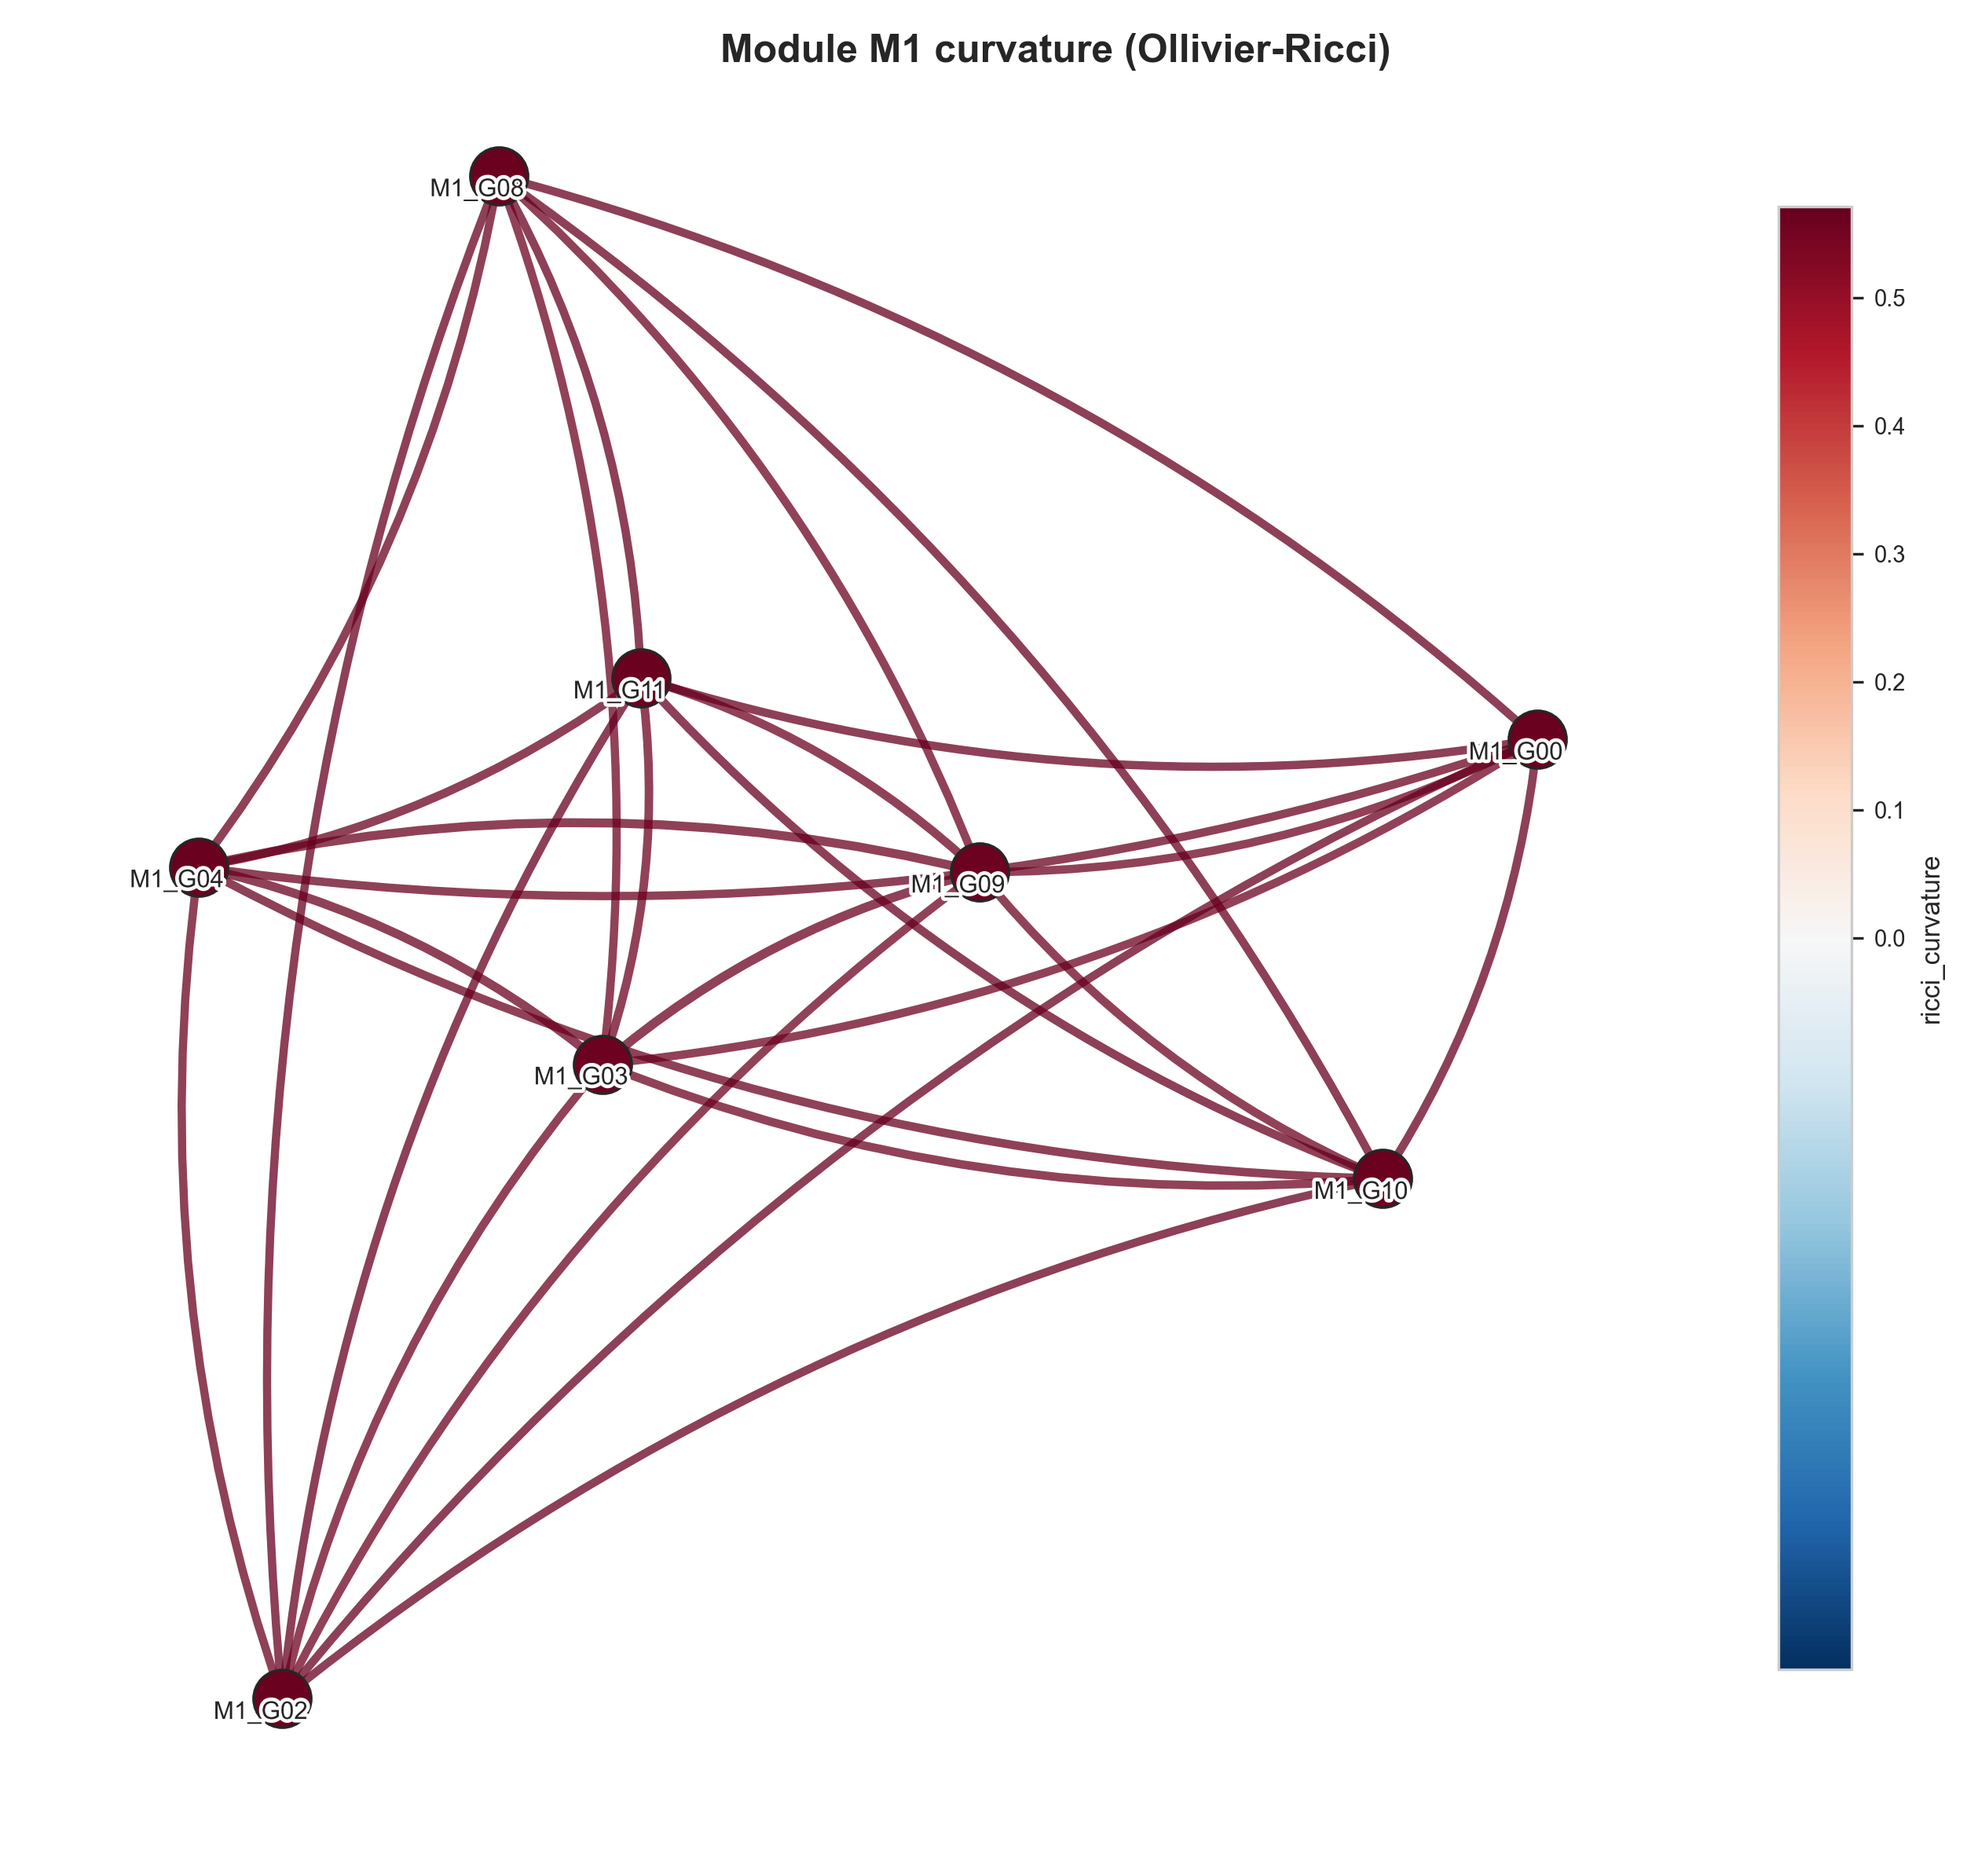
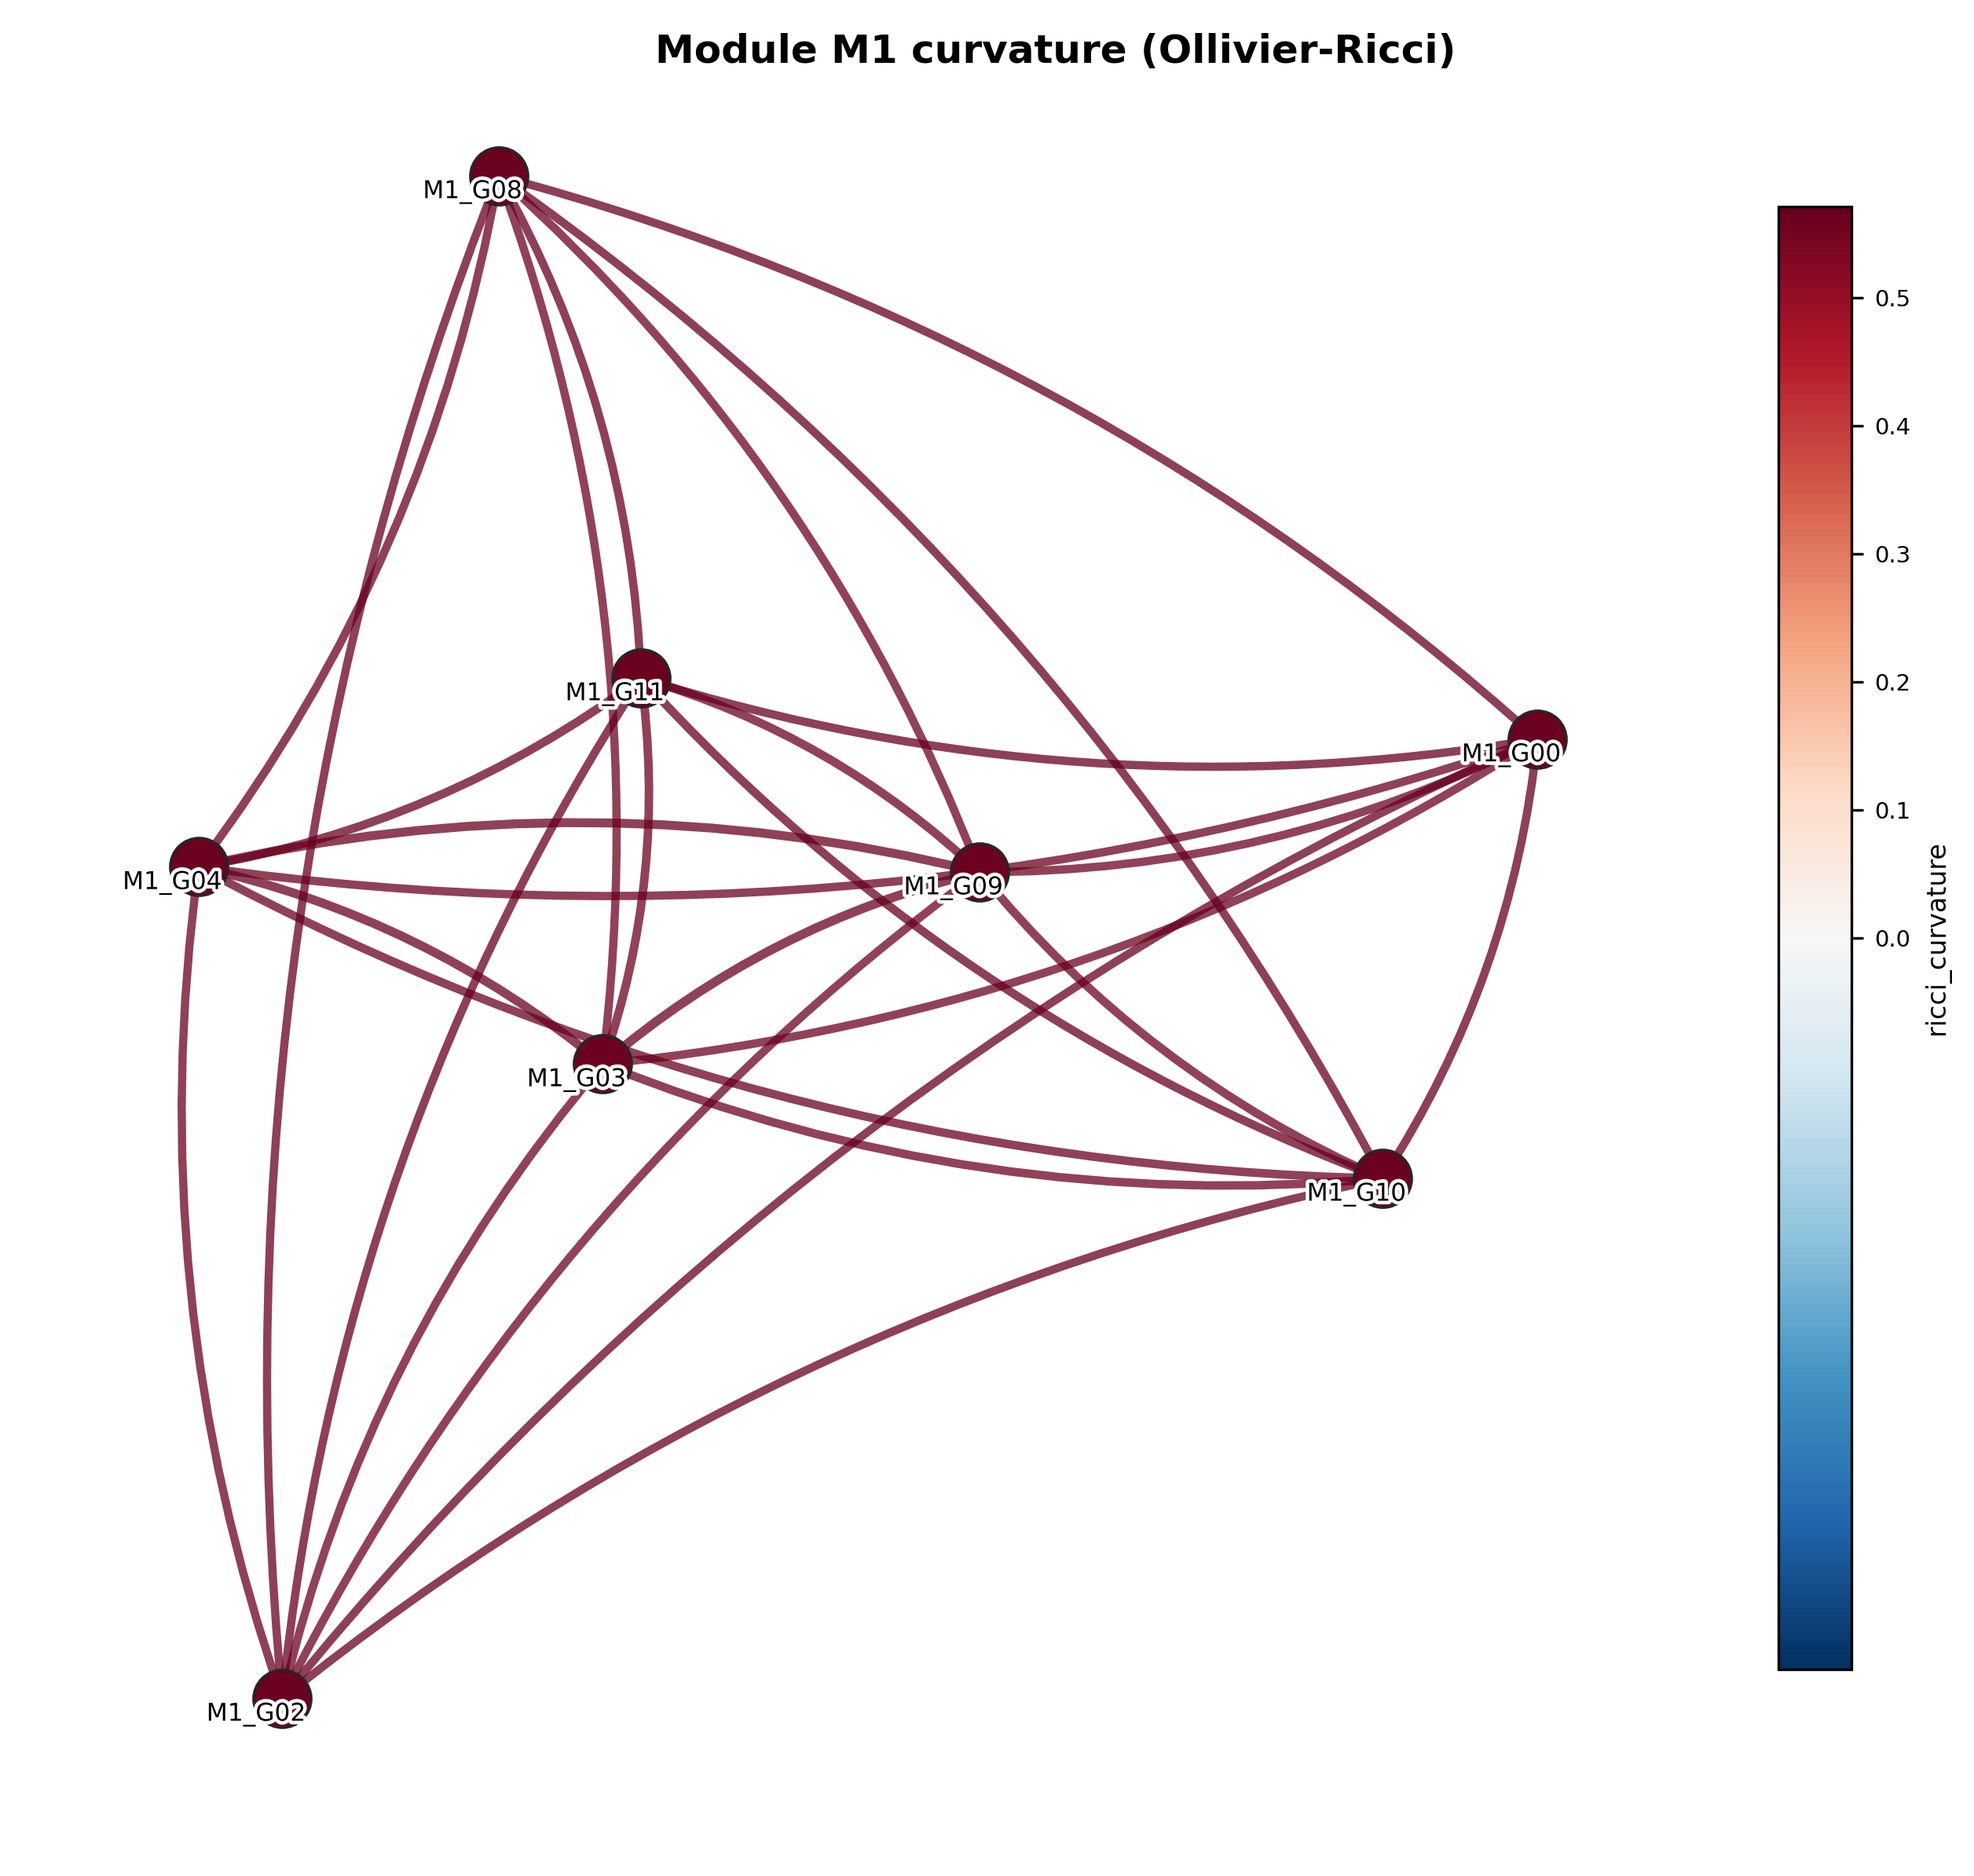
Preserve figure typography when importing the Ricci solver
NetworKit applies a seaborn preset during import. Isolate that change so coexpression figures keep the study theme on the first solver call. Re-render the affected gallery panel and check that computing curvature preserves the caller's style.

diff --git a/src/cellquorum/stages/cell_cell_communication/network/ricci_method.py b/src/cellquorum/stages/cell_cell_communication/network/ricci_method.py
@@ -7,6 +7,7 @@ from typing import TYPE_CHECKING
 import anndata as ad
 import networkx as nx
 import pandas as pd
+from matplotlib import rc_context
 
 from cellquorum.core.contracts import DataContract
 from cellquorum.core.stage import StageArtifact, StageResult
@@ -37,7 +38,9 @@ def compute_ricci_curvature(G: nx.DiGraph, alpha: float = 0.5) -> tuple[pd.DataF
     if G.number_of_edges() == 0:
         return pd.DataFrame(columns=_EDGE_COLS), pd.DataFrame(columns=_NODE_COLS)
     try:
-        from GraphRicciCurvature.OllivierRicci import OllivierRicci
+        # NetworKit applies seaborn's whitegrid style at import time. Keep the caller's theme.
+        with rc_context():
+            from GraphRicciCurvature.OllivierRicci import OllivierRicci
     except ImportError:
         return pd.DataFrame(columns=_EDGE_COLS), pd.DataFrame(columns=_NODE_COLS)
 

diff --git a/tests/stages/cell_cell_communication/test_ccc_ricci_method.py b/tests/stages/cell_cell_communication/test_ccc_ricci_method.py
@@ -1,6 +1,7 @@
 from __future__ import annotations
 
 import anndata as ad
+import matplotlib as mpl
 import numpy as np
 import pandas as pd
 import pytest
@@ -74,7 +75,10 @@ def test_ricci_skips_when_source_absent(tmp_path):
 def test_ricci_computes_curvature_when_available(tmp_path):
     pytest.importorskip("GraphRicciCurvature")
     a = _adata()
-    res = RicciMethod().run(a, _config(), _Ctx(tmp_path))
+    with mpl.rc_context({"axes.grid": False, "font.sans-serif": ["DejaVu Sans"]}):
+        res = RicciMethod().run(a, _config(), _Ctx(tmp_path))
+        assert not mpl.rcParams["axes.grid"]
+        assert mpl.rcParams["font.sans-serif"] == ["DejaVu Sans"]
     assert not isinstance(res, MethodSkip)
     assert (tmp_path / "results" / "ccc_network" / "curvature_cci_edges.csv").exists()
     assert "curvature" in res.adata.uns["ccc_network"]
